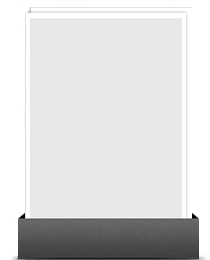
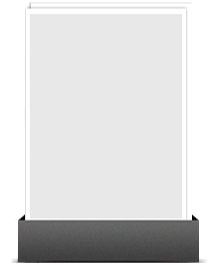
- UI improvements

Changed region(s): [[0.0571, 0.9538, 0.9714, 1.0], [0.0857, 0.8, 0.9429, 0.8615], [0.1143, 0.0, 0.8857, 0.0615]]

diff --git a/learnEverything/QuestionSetViewController.m b/learnEverything/QuestionSetViewController.m
@@ -89,8 +89,8 @@
     _questionSetView = [[GMGridView alloc] initWithFrame:_questionSetView_placeholder.frame];
     _questionSetView.clipsToBounds = YES;
     _questionSetView.style = GMGridViewStyleSwap;
-    _questionSetView.itemSpacing = 41;
-    _questionSetView.minEdgeInsets = UIEdgeInsetsMake(20, 20, 20, 20);
+    _questionSetView.itemSpacing = 0;
+    _questionSetView.minEdgeInsets = UIEdgeInsetsMake(10, 92, 10, 92);
     _questionSetView.centerGrid = NO;
     _questionSetView.actionDelegate = self;
 //    _questionSetView.sortingDelegate = self;
@@ -166,7 +166,7 @@
 
 - (CGSize)GMGridView:(GMGridView *)gridView sizeForItemsInInterfaceOrientation:(UIInterfaceOrientation)orientation
 {
-    return CGSizeMake(210, 260);
+    return CGSizeMake(210, 290);
 }
 
 - (GMGridViewCell*)GMGridView:(GMGridView *)gridView cellForItemAtIndex:(NSInteger)index
@@ -360,41 +360,39 @@
     id <NSFetchedResultsSectionInfo> sectionInfo = [[self.fetchedResultsController sections] objectAtIndex:0];
     if (index >= [sectionInfo numberOfObjects]) {
         //Add Button
-        UIView *view = [[UIView alloc] initWithFrame:CGRectMake(0, 0, 140, 210)];
-        view.backgroundColor = [UIColor redColor];
-        UILabel *lbl = [[UILabel alloc] initWithFrame:CGRectMake(0, 180, 140, 30)];
-        lbl.textAlignment = UITextAlignmentCenter;
-        lbl.text = @"+";
+        UIImageView *view = [[UIImageView alloc] initWithFrame:CGRectMake(0, 0, 210, 290)];
+        view.image = [UIImage imageNamed:@"question_set_add_new"];
+        view.userInteractionEnabled = YES;
         
         cell.contentView = view;
     } else
     {
         QuestionSet *managedObject = [self.fetchedResultsController objectAtIndexPath:[NSIndexPath indexPathForRow:index inSection:0]];
         
-        UIImageView *view = [[UIImageView alloc] initWithFrame:CGRectMake(0, 0, 210, 260)];
-        view.image = [UIImage imageNamed:@"question_set_bg"];
+        UIImageView *view = [[UIImageView alloc] initWithFrame:CGRectMake(0, 0, 210, 290)];
+        view.image = [UIImage imageNamed:@"question_set_bg_2"];
         view.userInteractionEnabled = YES;
 //        view.backgroundColor = [UIColor redColor];
         
-        UIImageView *img = [[UIImageView alloc] initWithFrame:CGRectMake(10, 0, 144, 192)];
-        img.backgroundColor = [UIColor blackColor];
+        UIImageView *img = [[UIImageView alloc] initWithFrame:CGRectMake(30, 16, 153, 204)];
+        img.backgroundColor = [UIColor clearColor];
+        img.contentMode = UIViewContentModeScaleAspectFit;
         img.tag = 0;
         img.image = [UIImage imageWithData:managedObject.cover_data];
-        //[view addSubview:img];
+        [view addSubview:img];
         
-        UILabel *lbl = [[UILabel alloc] initWithFrame:CGRectMake(10, 192, 144, 48)];
-        lbl.font = [UIFont regularChineseFontWithSize:26];
-//        lbl.shadowColor = [UIColor whiteColor];
-//        lbl.shadowOffset = CGSizeMake(0, 1);
-        lbl.backgroundColor = [UIColor colorWithRed:1.0f green:0.41f blue:0.41f alpha:0.6f];
-//        lbl.shadowColor = [UIColor darkTextColor];
-//        lbl.shadowOffset = CGSizeMake(0, -1);
+        UILabel *lbl = [[UILabel alloc] initWithFrame:CGRectMake(21, 224, 176, 40)];
+        lbl.font = [UIFont regularChineseFontWithSize:33];
+        lbl.shadowColor = [UIColor blackColor];
+        lbl.shadowOffset = CGSizeMake(1, -1);
+        lbl.backgroundColor = [UIColor clearColor];
+        lbl.textColor = [UIColor whiteColor];
         lbl.adjustsFontSizeToFitWidth = YES;
         lbl.minimumFontSize = 9;
         lbl.textAlignment = UITextAlignmentCenter;
         lbl.text = managedObject.name;
         lbl.tag = 1;
-        //[view addSubview:lbl];
+        [view addSubview:lbl];
         
         cell.contentView = view;
     }
